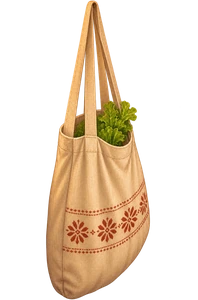
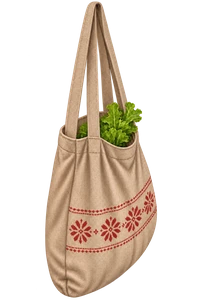
Alat Kese umesto alata Kuke; tamnija slika torbe
Claude-Session: https://claude.ai/code/session_01GMM3Rnq6i1o8tZEuJzXhvg

diff --git a/js/wall-bags.js b/js/wall-bags.js
@@ -1,0 +1,100 @@
+/* Cookster: kese na kukama levog zida + alat "Kese" za podesavanje.
+   Slika: assets/ui/wall/kesa.webp (198x300; petlja ruckica je gore, na 47.7% sirine). Svaka kesa: x,y = tacka O KOJU VISI (vrh petlje, na kuglici kuke) u koordinatama scene,
+   h = visina px, rz = njihanje/rotacija oko te tacke, rx = nagib gore-dole, ry = nagib levo-desno (stepeni), p = perspektiva.
+   Alat "🛍 Kese": povuci kesu misem, klizaci, strelice (1 px, Shift 5), Dodaj/Duplikat/Obrisi/Kopiraj JSON/Izvezi fajl/Resetuj. Cuva u localStorage 'cookster.wall-bags.v1'.
+   Dok alat nije povezan sa pijacom, kese se vide samo dok je alat otvoren (checkbox "Prikazi kese"). */
+(function(){
+'use strict';
+if(window.CooksterWallBags)return;
+var KEY='cookster.wall-bags.v1',IMG_W=198,IMG_H=300,APEX=.477,SRC='assets/ui/wall/kesa.webp?v=2';
+function defaults(){
+  var hk=(window.CooksterWallHooks&&CooksterWallHooks.get())||[];
+  return hk.map(function(h){return {x:+(h.x+5).toFixed(1),y:+(h.y-3).toFixed(1),h:72,rz:0,rx:0,ry:+(h.ry*.5).toFixed(1),p:500};});
+}
+function norm(b){return {x:+b.x,y:+b.y,h:+b.h||72,rz:+b.rz||0,rx:+b.rx||0,ry:+b.ry||0,p:+b.p||500};}
+var bags=[],els=[],sel=-1,open=false,showAll=true;
+function load(){
+  try{var r=JSON.parse(localStorage.getItem(KEY)||'null');if(Array.isArray(r)&&r.length)return r.filter(function(b){return b&&isFinite(b.x)&&isFinite(b.y);}).map(norm);}catch(e){}
+  return defaults();
+}
+function save(){try{localStorage.setItem(KEY,JSON.stringify(bags));}catch(e){}}
+function paint(b,el){
+  var H=b.h,W=H*IMG_W/IMG_H;
+  el.style.height=H+'px';el.style.width=W+'px';el.style.left=(b.x-W*APEX)+'px';el.style.top=b.y+'px';
+  el.style.transformOrigin=(APEX*100)+'% 0%';
+  el.style.transform='perspective('+b.p+'px) rotateX('+b.rx+'deg) rotateY('+b.ry+'deg) rotateZ('+b.rz+'deg)';
+}
+function render(){
+  var sc=document.getElementById('scene');if(!sc)return;
+  els.forEach(function(e){e.remove();});els=[];
+  bags.forEach(function(b,i){
+    var el=document.createElement('img');el.className='wall-bag';el.draggable=false;el.src=SRC;el.alt='';
+    el.style.cssText='position:absolute;z-index:4;filter:drop-shadow(1px 2px 2px rgba(30,12,0,.5));display:'+((open&&showAll)?'block':'none')+';pointer-events:'+(open?'auto':'none')+';cursor:'+(open?'move':'default');
+    paint(b,el);
+    el.addEventListener('pointerdown',function(e){if(!open||e.button!==0)return;e.preventDefault();e.stopPropagation();select(i);
+      var s0=screenToScene(e.clientX,e.clientY),x0=b.x,y0=b.y;
+      function mv(ev){var s=screenToScene(ev.clientX,ev.clientY);b.x=+(x0+s.x-s0.x).toFixed(1);b.y=+(y0+s.y-s0.y).toFixed(1);paint(b,el);syncRows();}
+      function up(){window.removeEventListener('pointermove',mv);window.removeEventListener('pointerup',up);save();}
+      window.addEventListener('pointermove',mv);window.addEventListener('pointerup',up);},true);
+    sc.appendChild(el);els.push(el);
+  });
+  mark();
+}
+function mark(){els.forEach(function(e,i){e.style.outline=(open&&i===sel)?'2px dashed #22c55e':'';e.style.outlineOffset='2px';});}
+
+var panel=null,btn=null,rows={};
+var CTRL=[['h','Veličina (visina px)',20,240,1],['rz','Rotacija (njihanje)',-60,60,.5],['rx','Nagib gore-dole',-70,70,.5],['ry','Nagib levo-desno',-70,70,.5],['p','Perspektiva',100,1500,10]];
+function select(i){sel=i;syncRows();mark();}
+function syncRows(){
+  var b=bags[sel];if(!panel)return;
+  panel.querySelector('.wb-st').textContent=b?('Kesa '+(sel+1)+' / '+bags.length+' · x '+b.x+' · y '+b.y):('Nijedna kesa nije izabrana ('+bags.length+' kesa). Klikni kesu.');
+  CTRL.forEach(function(c){var r=rows[c[0]];r.range.disabled=r.num.disabled=!b;if(b){r.range.value=b[c[0]];r.num.value=b[c[0]];}});
+}
+function buildPanel(){
+  if(panel)return;
+  var css=document.createElement('style');
+  css.textContent='#wbPanel{position:fixed;left:10px;bottom:60px;z-index:2147483000;width:292px;padding:10px 12px;border-radius:12px;border:2px solid #351b0d;background:#fff4dc;color:#351b0d;font:13px system-ui,sans-serif;display:none;box-shadow:0 8px 24px rgba(0,0,0,.4)}'
+   +'#wbPanel b{font-size:14px}#wbPanel .wb-st{margin:4px 0 8px;font-size:12px;color:#6b4a28}#wbPanel label{display:block;margin:5px 0 0;font-weight:700;font-size:12px}'
+   +'#wbPanel .wb-r{display:flex;gap:6px;align-items:center}#wbPanel input[type=range]{flex:1}#wbPanel input[type=number]{width:62px}'
+   +'#wbPanel .wb-b{display:flex;flex-wrap:wrap;gap:5px;margin-top:9px}#wbPanel button{padding:5px 8px;border:2px solid #351b0d;border-radius:8px;background:#e8c27a;color:#351b0d;font:700 12px system-ui,sans-serif;cursor:pointer}'
+   +'#wbBtn{position:fixed;left:10px;bottom:20px;z-index:2147483000;padding:7px 11px;border-radius:9px;border:2px solid #351b0d;background:#e8c27a;color:#351b0d;font:700 13px system-ui,sans-serif;cursor:pointer}';
+  document.head.appendChild(css);
+  panel=document.createElement('div');panel.id='wbPanel';panel.setAttribute('data-tool-ui','1');
+  panel.innerHTML='<b>🛍 Kese</b><div class="wb-st"></div><label style="font-weight:600"><input type="checkbox" class="wb-show" checked> Prikaži kese</label>';
+  panel.querySelector('.wb-show').addEventListener('change',function(e){showAll=e.target.checked;render();});
+  CTRL.forEach(function(c){
+    var l=document.createElement('label');l.textContent=c[1];var w=document.createElement('div');w.className='wb-r';
+    var rg=document.createElement('input');rg.type='range';rg.min=c[2];rg.max=c[3];rg.step=c[4];
+    var nm=document.createElement('input');nm.type='number';nm.min=c[2];nm.max=c[3];nm.step=c[4];
+    function set(v){var b=bags[sel];if(!b)return;v=+v;if(!isFinite(v))return;b[c[0]]=v;rg.value=v;nm.value=v;paint(b,els[sel]);save();}
+    rg.addEventListener('input',function(){set(rg.value);});nm.addEventListener('change',function(){set(nm.value);});
+    w.append(rg,nm);panel.append(l,w);rows[c[0]]={range:rg,num:nm};
+  });
+  var bs=document.createElement('div');bs.className='wb-b';panel.appendChild(bs);
+  function B(t,f){var x=document.createElement('button');x.type='button';x.textContent=t;x.onclick=f;bs.appendChild(x);}
+  B('Dodaj',function(){var b=bags[sel]||{x:60,y:380,h:72,rz:0,rx:0,ry:0,p:500};bags.push(norm({x:b.x+16,y:b.y+33,h:b.h,rz:b.rz,rx:b.rx,ry:b.ry,p:b.p}));sel=bags.length-1;save();render();syncRows();});
+  B('Duplikat',function(){if(!bags[sel])return;var b=bags[sel];bags.push(norm({x:b.x+12,y:b.y+12,h:b.h,rz:b.rz,rx:b.rx,ry:b.ry,p:b.p}));sel=bags.length-1;save();render();syncRows();});
+  B('Obriši',function(){if(!bags[sel])return;bags.splice(sel,1);sel=Math.min(sel,bags.length-1);save();render();syncRows();});
+  B('Kopiraj JSON',function(){var t=JSON.stringify(bags);try{navigator.clipboard.writeText(t);}catch(e){}window.prompt('JSON kesa (Ctrl+C):',t);});
+  B('Izvezi fajl',function(){var d={version:1,tool:'cookster-wall-bags',exportedAt:new Date().toISOString(),image:{w:IMG_W,h:IMG_H,apexX:APEX},scene:{w:1672,h:941},bags:bags};
+    var a=document.createElement('a');a.href=URL.createObjectURL(new Blob([JSON.stringify(d,null,2)],{type:'application/json'}));a.download='cookster-wall-bags.json';document.body.appendChild(a);a.click();setTimeout(function(){a.remove();URL.revokeObjectURL(a.href);},500);});
+  B('Resetuj',function(){bags=defaults();sel=0;save();render();syncRows();});
+  B('Zatvori',function(){toggle(false);});
+  document.body.appendChild(panel);
+  btn=document.createElement('button');btn.id='wbBtn';btn.type='button';btn.textContent='🛍 Kese';btn.setAttribute('data-tool-ui','1');btn.onclick=function(){toggle(!open);};document.body.appendChild(btn);
+  window.addEventListener('keydown',function(e){
+    if(!open||sel<0||!bags[sel]||/INPUT|TEXTAREA/.test((e.target&&e.target.tagName)||''))return;
+    var d=e.shiftKey?5:1,b=bags[sel],m=true;
+    if(e.key==='ArrowLeft')b.x-=d;else if(e.key==='ArrowRight')b.x+=d;else if(e.key==='ArrowUp')b.y-=d;else if(e.key==='ArrowDown')b.y+=d;else m=false;
+    if(m){e.preventDefault();paint(b,els[sel]);save();syncRows();}
+  });
+}
+function toggle(v){
+  open=!!v;buildPanel();panel.style.display=open?'block':'none';
+  if(open&&sel<0&&bags.length)sel=0;
+  render();syncRows();
+}
+function init(){bags=load();render();buildPanel();}
+window.CooksterWallBags={get:function(){return bags;},render:render,open:function(){toggle(true);}};
+if(document.readyState==='complete')init();else window.addEventListener('load',init);
+})();

diff --git a/js/wall-hooks.js b/js/wall-hooks.js
@@ -1,9 +1,5 @@
-/* Cookster: mesingane kuke na levom zidu (za kese sa pijace) + alat "Kuke" za podesavanje.
-   Slika: assets/ui/wall/kuka.webp (101x160). Svaka kuka: x,y = SREDINA kuke u koordinatama scene (1672x941), h = visina u px, rz = rotacija,
-   rx = nagib gore-dole, ry = nagib levo-desno (stepeni), p = perspektiva (px, manje = jaca).
-   Alat: dugme "Kuke" (levo, spada u Alate): povuci kuku mišem, klizaci za velicinu/rotaciju/nagibe, strelice pomeraju za 1 px (Shift = 5 px),
-   Dodaj / Duplikat / Obrisi / Kopiraj JSON / Resetuj. Podesavanja se cuvaju u localStorage 'cookster.wall-hooks.v1'.
-   "Kopiraj JSON" daje listu koja se ugradi u DEFAULTS da vazi za sve igrace. */
+/* Cookster: mesingane kuke na levom zidu (za kese sa pijace). Gotove: polozaj je u DEFAULTS (izvoz iz nekadasnjeg alata). Slika: assets/ui/wall/kuka.webp (101x160).
+   Svaka kuka: x,y = sredina, h = visina px, rz = rotacija, rx/ry = nagib gore-dole / levo-desno (stepeni), p = perspektiva. Kese koje vise na njima: js/wall-bags.js. */
 (function(){
 'use strict';
 if(window.CooksterWallHooks)return;
@@ -17,8 +13,8 @@ function load(){
 }
 function norm(h){return {x:+h.x,y:+h.y,h:+h.h||34,rz:+h.rz||0,rx:+h.rx||0,ry:+h.ry||0,p:+h.p||500};}
 function save(){try{localStorage.setItem(KEY,JSON.stringify(hooks));}catch(e){}}
-hooks=load();
-var els=[],sel=-1,open=false;
+hooks=clone(DEFAULTS);   // kuke su gotove (alat je obrisan); polozaj je u DEFAULTS
+var els=[],open=false;
 
 function paint(h,el){
   var H=h.h,W=H*IMG_W/IMG_H;
@@ -30,72 +26,13 @@ function render(){
   els.forEach(function(e){e.remove();});els=[];
   hooks.forEach(function(h,i){
     var el=document.createElement('img');el.className='wall-hook';el.draggable=false;el.src=SRC;el.alt='';
-    el.style.cssText='position:absolute;z-index:3;transform-origin:50% 50%;filter:drop-shadow(1px 2px 1.5px rgba(30,12,0,.55));pointer-events:'+(open?'auto':'none')+';cursor:'+(open?'move':'default');
+    el.style.cssText='position:absolute;z-index:3;transform-origin:50% 50%;filter:drop-shadow(1px 2px 1.5px rgba(30,12,0,.55));pointer-events:none';
     paint(h,el);
-    el.addEventListener('pointerdown',function(e){if(!open||e.button!==0)return;e.preventDefault();e.stopPropagation();select(i);
-      var s0=screenToScene(e.clientX,e.clientY),x0=h.x,y0=h.y;el.setPointerCapture&&el.setPointerCapture(e.pointerId);
-      function mv(ev){var s=screenToScene(ev.clientX,ev.clientY);h.x=+(x0+s.x-s0.x).toFixed(1);h.y=+(y0+s.y-s0.y).toFixed(1);paint(h,el);syncRows();}
-      function up(){window.removeEventListener('pointermove',mv);window.removeEventListener('pointerup',up);save();}
-      window.addEventListener('pointermove',mv);window.addEventListener('pointerup',up);},true);
     sc.appendChild(el);els.push(el);
   });
-  mark();
 }
-function mark(){els.forEach(function(e,i){e.style.outline=(open&&i===sel)?'2px dashed #22c55e':'';e.style.outlineOffset='2px';});}
 
-// ---------- alat ----------
-var panel=null,btn=null,rows={};
-var CTRL=[['h','Veličina (visina px)',8,140,1],['rz','Rotacija',-90,90,.5],['rx','Nagib gore-dole',-70,70,.5],['ry','Nagib levo-desno',-70,70,.5],['p','Perspektiva',100,1500,10]];
-function select(i){sel=i;syncRows();mark();}
-function syncRows(){
-  var h=hooks[sel];if(!panel)return;
-  panel.querySelector('.wh-st').textContent=h?('Kuka '+(sel+1)+' / '+hooks.length+' · x '+h.x+' · y '+h.y):('Nijedna kuka nije izabrana ('+hooks.length+' kuka). Klikni kuku.');
-  CTRL.forEach(function(c){var r=rows[c[0]];r.range.disabled=r.num.disabled=!h;if(h){r.range.value=h[c[0]];r.num.value=h[c[0]];}});
-}
-function buildPanel(){
-  if(panel)return;
-  var css=document.createElement('style');
-  css.textContent='#whPanel{position:fixed;left:10px;bottom:60px;z-index:2147483000;width:292px;padding:10px 12px;border-radius:12px;border:2px solid #351b0d;background:#fff4dc;color:#351b0d;font:13px system-ui,sans-serif;display:none;box-shadow:0 8px 24px rgba(0,0,0,.4)}'
-   +'#whPanel b{font-size:14px}#whPanel .wh-st{margin:4px 0 8px;font-size:12px;color:#6b4a28}#whPanel label{display:block;margin:5px 0 0;font-weight:700;font-size:12px}'
-   +'#whPanel .wh-r{display:flex;gap:6px;align-items:center}#whPanel input[type=range]{flex:1}#whPanel input[type=number]{width:62px}'
-   +'#whPanel .wh-b{display:flex;flex-wrap:wrap;gap:5px;margin-top:9px}#whPanel button{padding:5px 8px;border:2px solid #351b0d;border-radius:8px;background:#e8c27a;color:#351b0d;font:700 12px system-ui,sans-serif;cursor:pointer}'
-   +'#whBtn{position:fixed;left:10px;bottom:20px;z-index:2147483000;padding:7px 11px;border-radius:9px;border:2px solid #351b0d;background:#e8c27a;color:#351b0d;font:700 13px system-ui,sans-serif;cursor:pointer}';
-  document.head.appendChild(css);
-  panel=document.createElement('div');panel.id='whPanel';panel.setAttribute('data-tool-ui','1');
-  panel.innerHTML='<b>🪝 Kuke</b><div class="wh-st"></div>';
-  CTRL.forEach(function(c){
-    var l=document.createElement('label');l.textContent=c[1];var w=document.createElement('div');w.className='wh-r';
-    var rg=document.createElement('input');rg.type='range';rg.min=c[2];rg.max=c[3];rg.step=c[4];
-    var nm=document.createElement('input');nm.type='number';nm.min=c[2];nm.max=c[3];nm.step=c[4];
-    function set(v){var h=hooks[sel];if(!h)return;v=+v;if(!isFinite(v))return;h[c[0]]=v;rg.value=v;nm.value=v;paint(h,els[sel]);save();}
-    rg.addEventListener('input',function(){set(rg.value);});nm.addEventListener('change',function(){set(nm.value);});
-    w.append(rg,nm);panel.append(l,w);rows[c[0]]={range:rg,num:nm};
-  });
-  var bs=document.createElement('div');bs.className='wh-b';panel.appendChild(bs);
-  function B(t,f){var b=document.createElement('button');b.type='button';b.textContent=t;b.onclick=f;bs.appendChild(b);}
-  B('Dodaj',function(){var b=hooks[sel]||{x:60,y:380,h:34,rz:-16,rx:0,ry:0,p:500};hooks.push(norm({x:b.x+16,y:b.y+33,h:b.h,rz:b.rz,rx:b.rx,ry:b.ry,p:b.p}));sel=hooks.length-1;save();render();syncRows();});
-  B('Duplikat',function(){if(!hooks[sel])return;var b=hooks[sel];hooks.push(norm({x:b.x+12,y:b.y+12,h:b.h,rz:b.rz,rx:b.rx,ry:b.ry,p:b.p}));sel=hooks.length-1;save();render();syncRows();});
-  B('Obriši',function(){if(!hooks[sel])return;hooks.splice(sel,1);sel=Math.min(sel,hooks.length-1);save();render();syncRows();});
-  B('Kopiraj JSON',function(){var t=JSON.stringify(hooks);try{navigator.clipboard.writeText(t);}catch(e){}window.prompt('JSON kuka (Ctrl+C):',t);});
-  B('Izvezi fajl',function(){var d={version:1,tool:'cookster-wall-hooks',exportedAt:new Date().toISOString(),image:{w:IMG_W,h:IMG_H},scene:{w:1672,h:941},hooks:hooks};
-    var a=document.createElement('a');a.href=URL.createObjectURL(new Blob([JSON.stringify(d,null,2)],{type:'application/json'}));a.download='cookster-wall-hooks.json';document.body.appendChild(a);a.click();setTimeout(function(){a.remove();URL.revokeObjectURL(a.href);},500);});
-  B('Resetuj',function(){hooks=clone(DEFAULTS);sel=0;save();render();syncRows();});
-  B('Zatvori',function(){toggle(false);});
-  document.body.appendChild(panel);
-  btn=document.createElement('button');btn.id='whBtn';btn.type='button';btn.textContent='🪝 Kuke';btn.setAttribute('data-tool-ui','1');btn.onclick=function(){toggle(!open);};document.body.appendChild(btn);
-  window.addEventListener('keydown',function(e){
-    if(!open||sel<0||!hooks[sel]||/INPUT|TEXTAREA/.test((e.target&&e.target.tagName)||''))return;
-    var d=e.shiftKey?5:1,h=hooks[sel],m=true;
-    if(e.key==='ArrowLeft')h.x-=d;else if(e.key==='ArrowRight')h.x+=d;else if(e.key==='ArrowUp')h.y-=d;else if(e.key==='ArrowDown')h.y+=d;else m=false;
-    if(m){e.preventDefault();paint(h,els[sel]);save();syncRows();}
-  });
-}
-function toggle(v){
-  open=!!v;buildPanel();panel.style.display=open?'block':'none';
-  els.forEach(function(e){e.style.pointerEvents=open?'auto':'none';e.style.cursor=open?'move':'default';});
-  if(open&&sel<0&&hooks.length)sel=0;syncRows();mark();
-}
-function init(){render();buildPanel();}
-window.CooksterWallHooks={get:function(){return hooks;},render:render,open:function(){toggle(true);},DEFAULTS:DEFAULTS};
+function init(){render();}
+window.CooksterWallHooks={get:function(){return hooks;},render:render,DEFAULTS:DEFAULTS};
 if(document.readyState==='complete')init();else window.addEventListener('load',init);
 })();

diff --git a/index.html b/index.html
@@ -266,7 +266,8 @@
 <script src="js/recorder.js?v=2"></script>
 <script src="js/damper.js?v=8"></script>
 <script src="js/tutorial.js?v=2"></script>
-<script src="js/wall-hooks.js?v=11"></script>
+<script src="js/wall-hooks.js?v=12"></script>
+<script src="js/wall-bags.js?v=1"></script>
 <div id="buildStamp" data-tool-ui="1" style="position:fixed;left:6px;bottom:3px;z-index:99999;font:10px/1 system-ui,sans-serif;color:#fff;opacity:.4;pointer-events:none;text-shadow:0 1px 2px #000">verzija 06.11. · meso 8</div>
 </body>
 </html>

diff --git a/NOTES.md b/NOTES.md
@@ -1310,3 +1310,4 @@ Završi dan (`js/day-report.js`, `CooksterDayReport`): dugme „🌙 Završi dan
 - Uputstvo (`js/tutorial.js`, Baba Savka): poruke izlaze u okviru gore, animirana strelica (gore-dole) pokazuje gde da se klikne; koraci se prebacuju sami kad igrac uradi trazeno. Prvi deo: drveno polje (hover) -> pijaca -> paradajz -> "Kupi sve". Pali se sa `?uputstvo` u adresi (jos nije ukljuceno za sve). Stanje `cookster.tutorial.v1`. Dalje: kese/seckanje/cinija/so i ulje, tikvice, gulas.
 - Kuke na levom zidu (`js/wall-hooks.js`, slika `assets/ui/wall/kuka.webp`): 6 brondzanih kuka (34 px) niz dijagonalu zida ispod prozora (koordinate u HOOKS). Za sada samo ukras; sledece kese sa pijace koje vise na njima.
 - Alat "Kuke" (`js/wall-hooks.js` 10, dugme "🪝 Kuke" uz ostale alate, krije ga prekidac Alati): povuci kuku misem; klizaci: velicina, rotacija, nagib gore-dole (rotateX), nagib levo-desno (rotateY), perspektiva; strelice pomeraju 1 px (Shift 5); Dodaj/Duplikat/Obrisi/Kopiraj JSON/Izvezi fajl (cookster-wall-hooks.json)/Resetuj. Cuva u localStorage `cookster.wall-hooks.v2`. DEFAULTS u fajlu su podrazumevane (6 kuka).
+- Alat "Kuke" obrisan (kuke gotove, polozaj u DEFAULTS u wall-hooks.js 12). Novi alat "Kese" (`js/wall-bags.js`): kese (`assets/ui/wall/kesa.webp`, tamnija platnena torba) vise na kukama; vrh petlje je tacka okaèenja; povuci kesu misem, klizaci velicina/rotacija(njihanje)/nagib gore-dole/levo-desno/perspektiva, strelice, Dodaj/Duplikat/Obrisi/Kopiraj JSON/Izvezi fajl (cookster-wall-bags.json)/Resetuj; cuva `cookster.wall-bags.v1`. Kese se vide samo dok je alat otvoren (jos nisu povezane sa pijacom).
